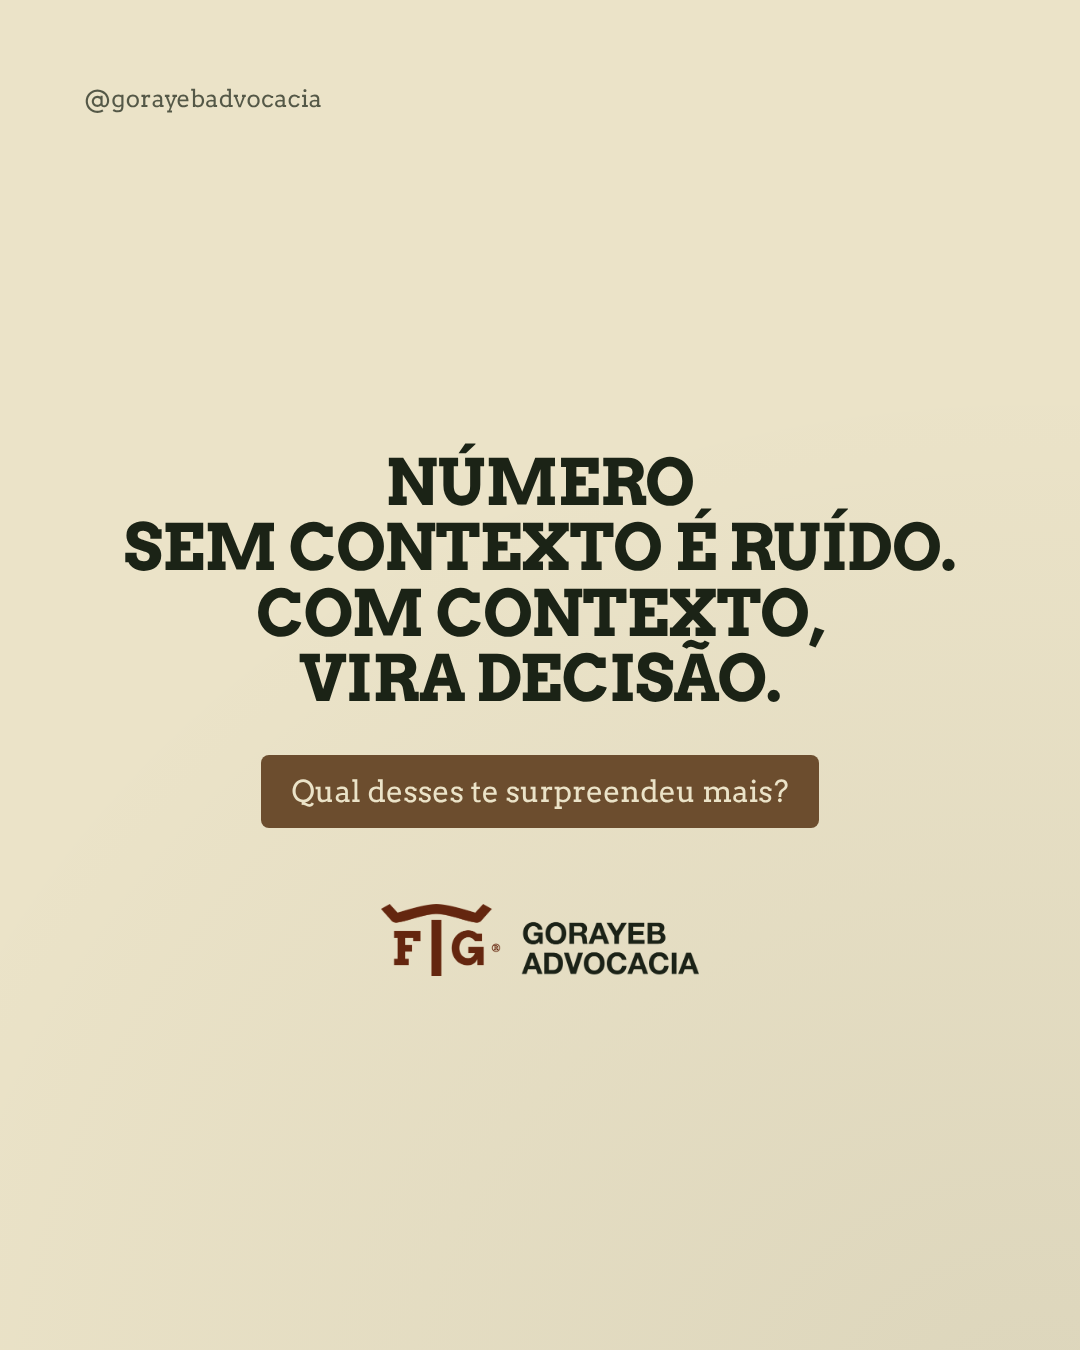
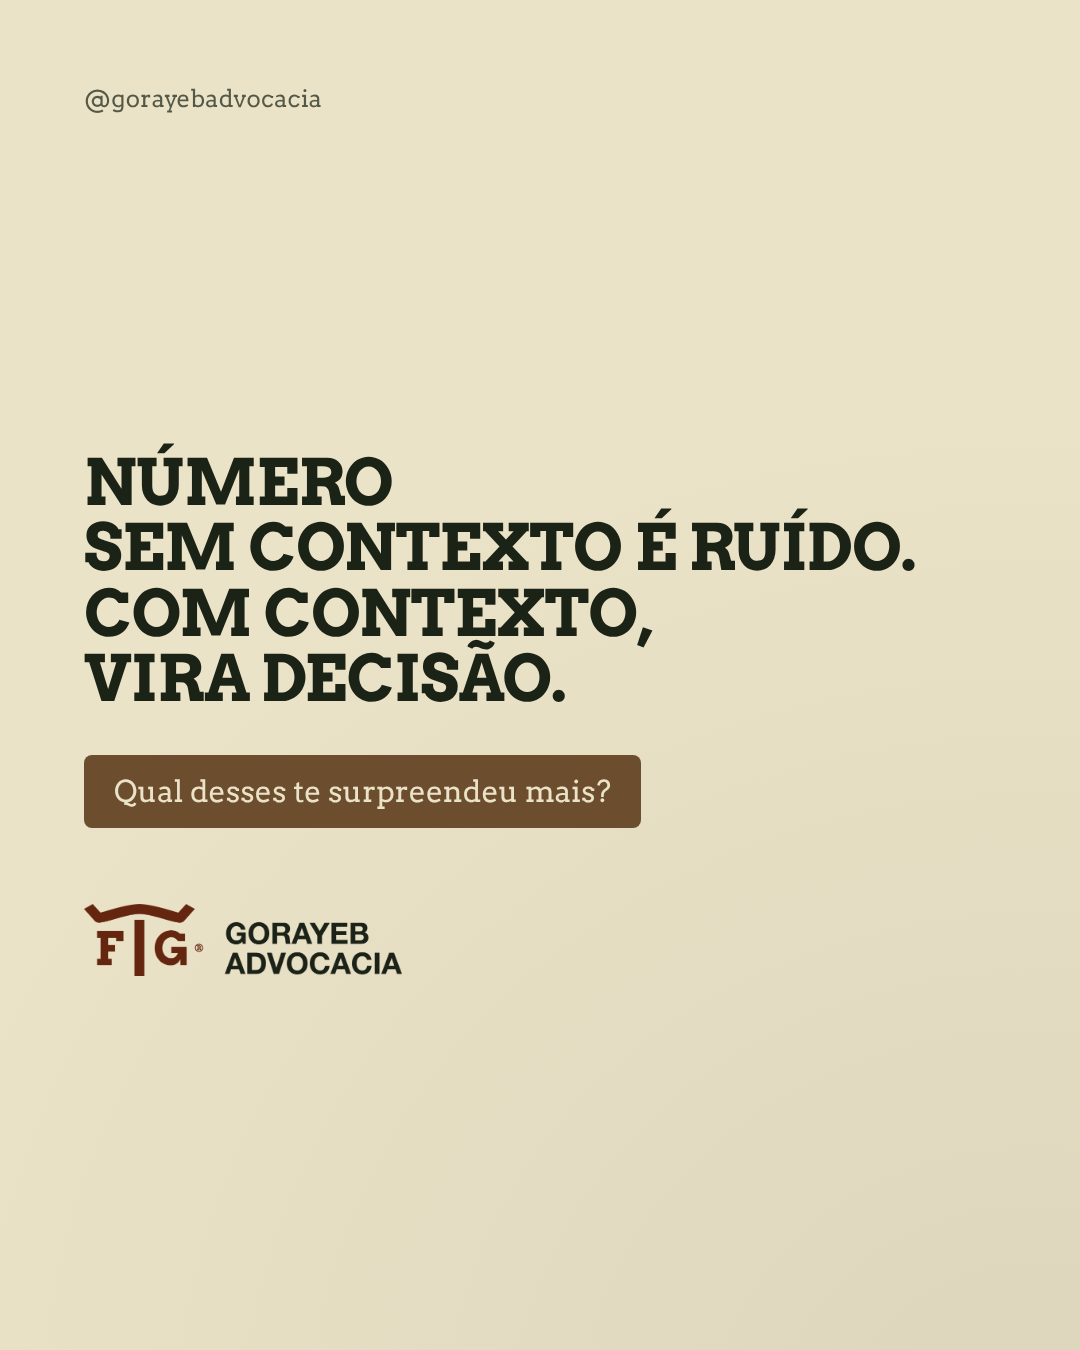
Alinha o fecho à esquerda, como o resto dos slides
Claude-Session: https://claude.ai/code/session_01PNm9HeejNLCDTQ5J6fF2k9

diff --git a/docs/gorayeb/template/base.css b/docs/gorayeb/template/base.css
@@ -453,3 +453,6 @@
 
 /* o pé da perspectiva fica numa faixa própria, longe das cifras */
 .pe-persp { position: relative; z-index: 2; }
+
+/* alinhamento padrão à esquerda, inclusive no fecho */
+.slide .cta { align-self: flex-start; }
